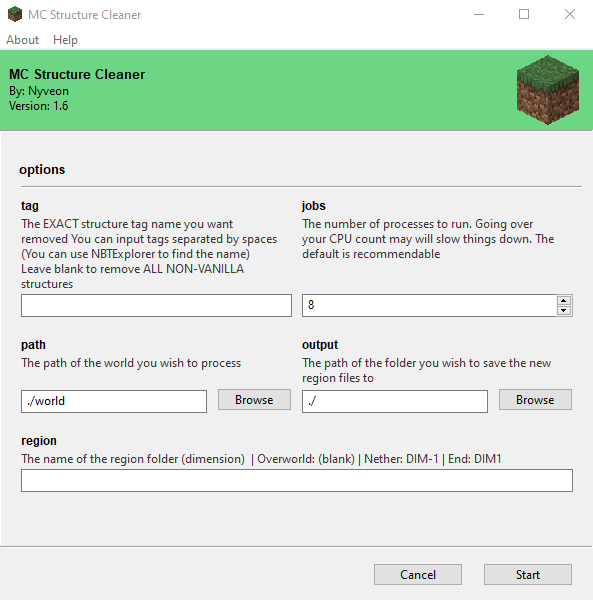
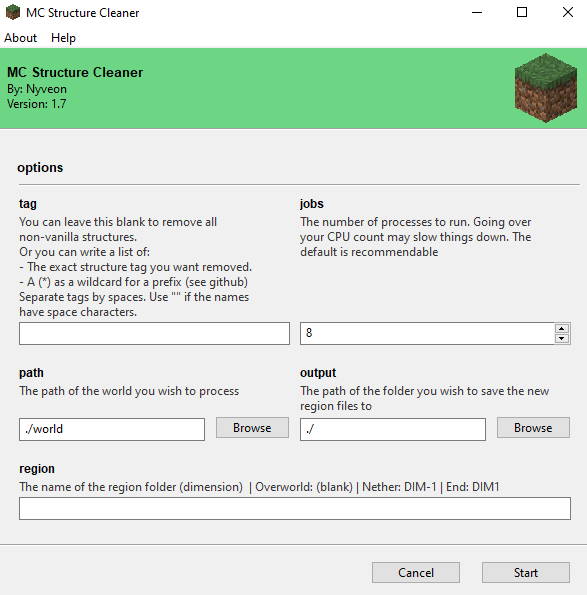
docs: update readme and GUI help

diff --git a/main.py b/main.py
@@ -28,18 +28,19 @@ except ImportError:
 
 # Information
 NAME = "MC Structure Cleaner"
-VERSION = "1.6"
+VERSION = "1.7"
 DESCRIPTION = f"By: Nyveon\nVersion: {VERSION}"
 HELP_JOBS = (
     "The number of processes to run. "
-    "Going over your CPU count may will "
+    "Going over your CPU count may "
     "slow things down. The default is recommendable"
 )
 HELP_TAG = (
-    "The EXACT structure tag you want removed. "
-    'Separate tags by spaces. Use "" if the names '
-    "have spaces. "
-    "Leave blank to remove ALL NON-VANILLA structures"
+    "You can leave this blank to remove all non-vanilla structures. \n"
+    "Or you can write a list of: \n"
+    "- The exact structure tag you want removed. \n"
+    "- A (*) as a wildcard for a prefix (see github) \n"
+    "Separate tags by spaces. Use \"\" if the names have space characters. "
 )
 HELP_PATH = "The path of the world you wish to process"
 HELP_OUTPUT = "The path of the folder you wish to save the new region files to"

diff --git a/README.md b/README.md
@@ -1,47 +1,55 @@
 # MCStructureCleaner
 
-Missing Structure Fix - Modded structure cleaner for minecraft. Removes all references to non-existent structures to allow for clean error logs and chunk saving. The program goes through every chunk, in every region file of the world, removing the relevant `structure reference` and `structure start` tags.
+Minecraft utility designed to repair worlds affected by the [[MC-194811] Missing structures will destroy saved worlds](https://bugs.mojang.com/browse/MC-194811) bug. This bug, resulting from uninstalling mods that generate custom structures, can cause **world instability** and **corrupt saves**. MCStructureCleaner meticulously scans and cleans every chunk in every region file of the world, removing orphaned `structure reference` and `structure start` tags. This process ensures clean error logs, efficient chunk saving and a more stable Minecraft experience.
 
-Designed to fix worlds suffering from the [[MC-194811] Missing structures will destroy saved worlds](https://bugs.mojang.com/browse/MC-194811) bug, where uninstalling a mod which generated custom structures causes the world to become unstable.
+## Key features
 
-Fixes errors such as `Unknown structure start: <missing structure>`, `Failed to save chunk`
+- Cleans up references to non-existent structures
+- Fixes `Unknown structure start: <missing structure>` error.
+- Fixes `Failed to save chunk` error.
+- Fixes `Found reference to unknown structure` console spam.
+- Should work on all Minecraft versions over 1.12
 
 ## Installation
 
-⚠ This does not work on 1.18.x worlds. ⚠
+**⚠ Important:** Always back up your world before using MCStructureCleaner's results
 
-1. Install [Python 3.x](https://www.python.org/). Currently only tested on python 3.12.x (latest at the time of writing this).
-2. Install the requirements [0xTiger's Fork of Matcool's Anvil Parser](https://github.com/0xTiger/anvil-parser) and [Gooey](https://github.com/chriskiehl/Gooey). This can be done with the following commands:
+1. **Install [Python 3.x](https://www.python.org/)**. *Python 3.12.x recommended*.
+2. **Install Dependencies:** Use the following commands in the command line to install required libraries:
 
 ```bash
-pip install git+https://github.com/0xTiger/anvil-parser
+pip install git+https://github.com/Nyveon/anvil-parser
 pip install Gooey
 ```
 
-3. Download the latest release (_MCStructureCleaner_v16.zip_) from the [releases page](https://github.com/Nyveon/MCStructureCleaner/releases) and extract it.
+3. **Download MCStructureCleaner:** Grab the latest release (_MCStructureCleaner_v17.zip_) from the [releases page](https://github.com/Nyveon/MCStructureCleaner/releases) and extract the contents.
 
-## How to Use (Instructions)
+## Usage
 
-1. Find the names of the structure tags you want to remove. I recommend using [NBTExplorer](https://github.com/jaquadro/NBTExplorer).
-2. **Install MCStructureCleaner** then double click on `main.py` to run the program.
-3. You should see an interface like this.
+1. **Find the Structure Tags**: I recommend using something like [NBTExplorer](https://github.com/jaquadro/NBTExplorer) to identify the tags you wish to remove.
+2. **Launch MCStructureCleaner**: Run `main.py` by double-clicking the file. You will be greeted with a user-friendly interface.
 
 ![MC Structure Cleaner GUI](images/screenshot1.png)
 
-4. Now, you can fill out each section:
-   1. `tag`: The exact name of the structure tag you want to remove. This is case sensitive. You can input many tags at once, separated by spaces. If the names have spaces in them, you can surround them with quotes. For example, `"my structure" "another structure"`. Leave this field blank if you want to delete **ALL NON-VANILLA STRUCTURE TAGS**.
-   2. `jobs`: The number of threads you want to run it on. Default: 2 x CPU logical processors. In my experience, the default works well enough.
-   3. `path`: The path to the world folder. (The whole folder, not just the `region` folder)
-   4. `output`: The path to the output folder. This is where the cleaned `new_region` will be saved. If you leave this blank, the cleaned world will be saved in the same folder as MCStructureCleaner.
-   5. `region`: The dimension you want to clean. If you leave this **blank** it will clean the overworld. `DIM-1` is the nether, `DIM1` is the end.
-5. _For example, this input will delete all occurances of "Better Mineshaft" and of "Better Stronghold" in the world "MyWorld", in the Nether (DIM-1), using 8 threads. The world folder is located in the user's minecraft saves, and the output will be saved to the desktop._
+3. **Configure options**:
+   - `tag`: Here you have two options,
+      1. Leave the field blank if you want to delete all non-vanilla structure tags.
+      2. Write a space-separated list of exact tags or tag prefixes you want removed.
+         - You can use a _wildcard_ (*) to match prefixes. For example if you want to remove all structures from additional structures you would add `additionalstructures:*` to the list.
+         - Note: Tag names are case sensitive.
+         - Note: If the tag name has spaces, surround it with quotes. For example, `"my structure" "another structure"`
+   - `jobs`: The number of threads you want to run it on. The default it optimal in most cases.
+   - `path`: The path to the world folder. (The whole folder, not just the `region` folder)
+   - `output`: The path to the output folder. This is where the cleaned `new_region` will be saved. If you leave this blank, the cleaned world will be saved in the same folder as MCStructureCleaner.
+   - `region`: The dimension you want to clean. If you leave this **blank** it will clean the overworld. `DIM-1` is the nether, `DIM1` is the end.
+4. **Example**: this input will delete all occurances of "Better Mineshaft" and better_stronghold, as well as all structures from the mod "watching" in the world "New World", in the Nether (DIM-1), using 8 threads. The world folder is located in the user's minecraft saves, and the output will be saved to the desktop.
 
 ![MC Structure Cleaner GUI](images/screenshot2.png)
 
-6. Once you have filled out all the sections, click `Start` to begin the process. This may take a while, especially if you have a larger world.
-7. If there is an error, it will be displayed in the `Output` section. If there is no error, the program will say `Done!` and you can close the program.
-8. Now you may rename the output folder (called `new_region`) to `region` and **replace** the old `region` folder in your world. **Don't forget to backup your world first!**
-9. Enjoy your now working world 😊
+5. **Start Cleaning:** Once configured, click `Start` to begin the process. This may take a while, especially if you have a larger world.
+6. **Toubleshooting:** If there is an error, it will be displayed in the `Output` section. If there is no error, the program will say `Done!` and you can close the program.
+7. **New files:** Now you may rename the output folder (called `new_region`) to `region` and **replace** the old `region` folder in your world. **Don't forget to backup your world first!**
+8. Enjoy your now working world 😊
 
 ### Command Line
 
@@ -51,7 +59,7 @@ pip install Gooey
 1. Run main.py with any of the following parameters. I recommend using [NBTExplorer](https://github.com/jaquadro/NBTExplorer) to find the name, or just letting the program fix all non-vanilla names by not inputting any tag.
 
    - `-h` For help on command line arguments.
-   - `-t` For the tag you want removed, in quotes. Leave empty if you wish to remove ALL NON-VANILLA TAGS.
+   - `-t` For the tag(s) you want removed, in quotes. Space-separated if multiple. Leave empty if you wish to remove ALL NON-VANILLA TAGS. Use * as a wildcard after a prefix.
    - `-j` For the number of threads you want to run it on. Default: 2 x CPU logical processors.
    - `-w` For the name of the world you want to process. Default: "world".
    - `-p` For the path to the world you want to process. Default: current directory.
@@ -80,18 +88,20 @@ pip install Gooey
 ## Warnings
 
 1. Always back up your worlds before making any changes to them.
-2. Structure specific effects that remained after uninstalling the mod will no longer work for the removed structures (This includes locating structures and custom loot tables).
-3. If you have corrupted region files (With the wrong data format, or a size of 0b) the script may crash.
+2. Structure specific effects that remained after uninstalling the mod will no longer work for the removed structures. This includes locating structures and chests being populated by custom loot tables.
+3. If you have corrupted region files the script may crash.
 
 ## Developers
 
 ### Installation & Testing
 
-#### Installation
+#### Getting Started
 
 Clone the repository, then install requirements:
 
 ```bash
+git clone https://github.com/Nyveon/MCStructureCleaner
+cd MCStructureCleaner
 pip install -r requirements.txt
 pip install -r tests/requirements.txt
 ```
@@ -132,20 +142,24 @@ Contributions are always welcome! See the [issues page](https://github.com/Nyveo
 
 ## Notes
 
-- Feel free to message me on discord (Nyveon#9999) or twitter (Nyveon) if you need help using it.
+- Feel free to message me on discord (@Nyveon) or twitter (Nyveon) if you need help using it.
 - **Why did we make this?** To save our own SMP world after uninstalling some mods and getting the MC-194811 error. We had spent a lot of time on it, and didn't want anyone else to have to lose their world to the same bug.
-- Thanks to @DemonInTheCloset for contributing to multiprocessing and command line arugments.
+- Thanks to @DemonInTheCloset for contributing to multiprocessing and command line arguments.
 - Thanks to @lleheny0 for contributing to file validation.
 
 ### Versions tested
 
-- Pre 1.12: The bug does not apply to these versions.
+- 1.12 and earlier: The bug does not apply to these versions.
 - 1.13.x: 🟡 Manually
-- 1.14.x: 🟠 Untested, but should work
-- 1.15.x: 🟢 Automatically
-- 1.16.x: 🟡 Manually
+- 1.14.x: 🟠 Untested, but should work.
+- 1.15.x: 🟢 Automatically tested by the code.
+- 1.16.x: 🟡 Manually tested.
 - 1.17.x: 🟠 Untested, but should work
-- 1.18.x: 🔴 Not working. anvil-parser is not compatible with 1.18.x yet.
-- 1.19.x: ❔ The bug might be fixed in this version. If anyone has information, please let me know c:
+- 1.18.x: 🟡 Manually tested.
+- 1.19.x: 🟠 Untested, but should work
+- 1.20.x: 🟡 Manually tested.
+- Later versions: 🟠 Untested.
+
+If you use this for any version, please let me know that it worked so this section can be updated! You can contact me on discord or leave an [issue](https://github.com/Nyveon/MCStructureCleaner/issues).
 
 ![MC Structure Cleaner](images/mc-structure-cleaner.png)
